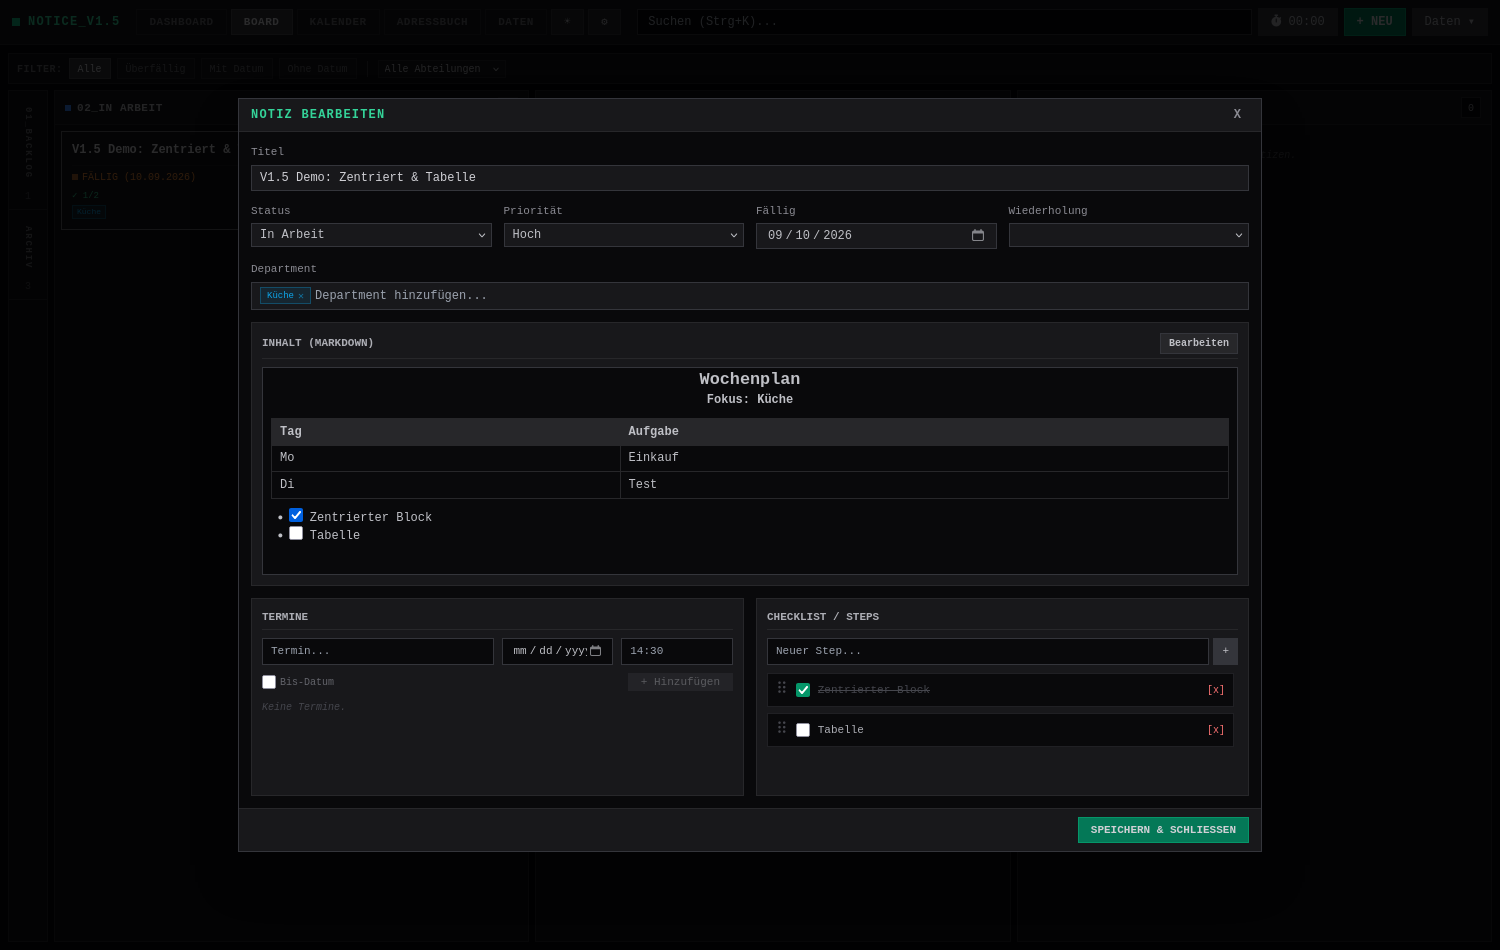
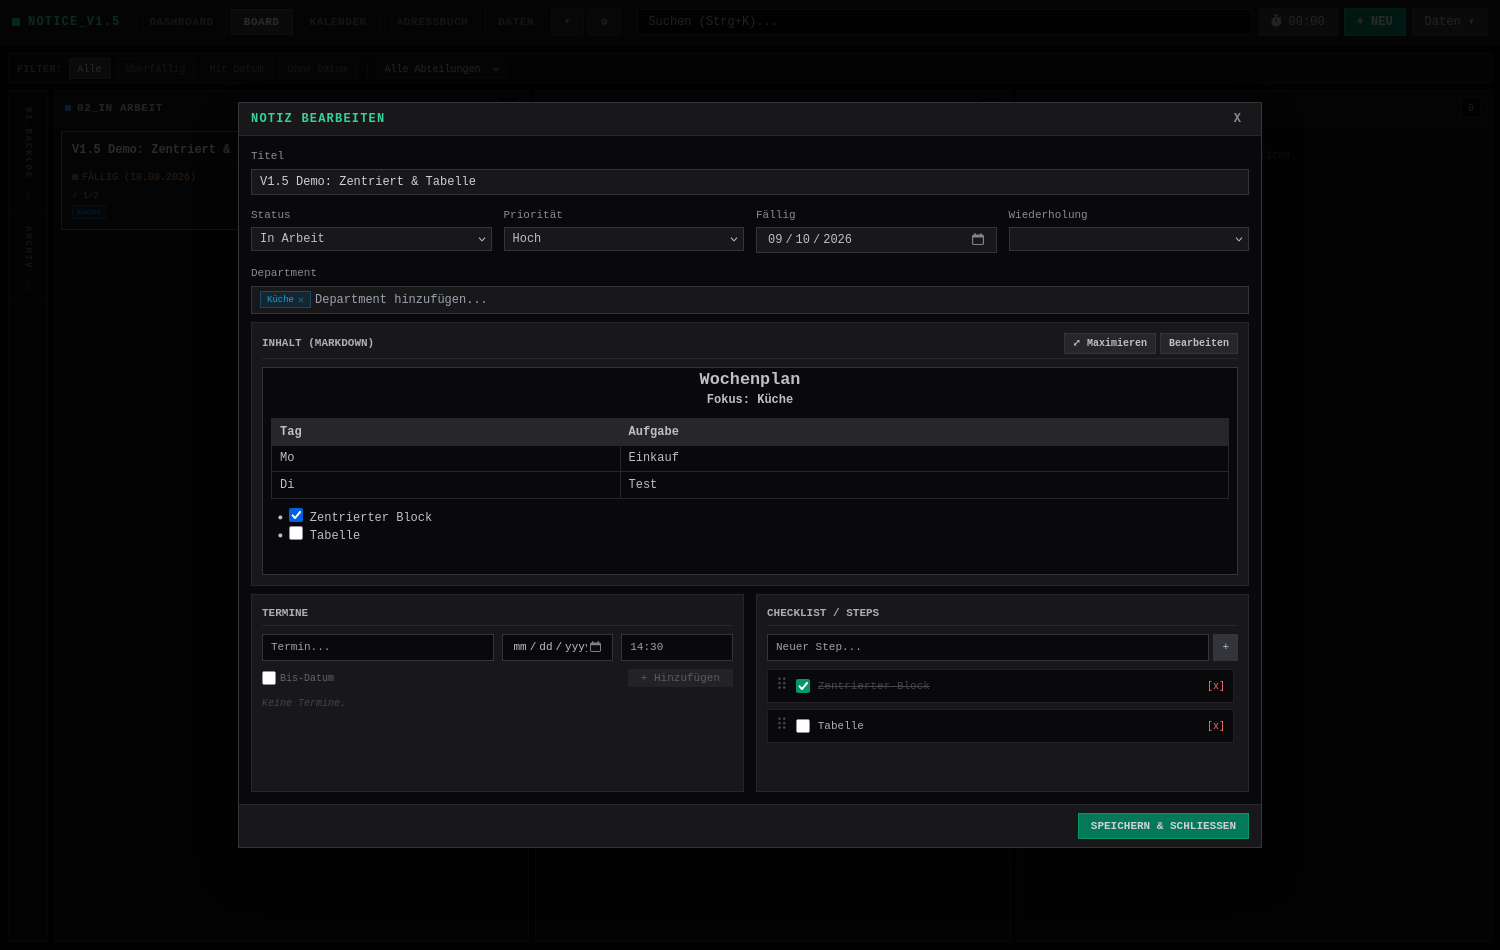
Notiz-Modals: nutzen volle Fensterhöhe (max-h-full + flex-1/-min-h-0 Body, Overlay p-2, gap-2) - kein Standard-Scrollbalken mehr im nicht-maximierten Fenster; 'Inhalt (Markdown)'-Card mit ⤢ Maximieren/⤡ Verkleinern-Toggle, der Termine/Steps ausblendet und den Editor füllend im Modal vergrößert

diff --git a/src/main.rs b/src/main.rs
@@ -2323,13 +2323,13 @@ const FRONTEND_HTML: &str = r#"<!DOCTYPE html>
         <input ref="imageUploadInputRef" type="file" accept="image/*" class="hidden" @change="onImageFileSelected">
 
         <!-- New note form -->
-        <div v-if="isNewNoteOpen" class="fixed inset-0 bg-black/80 flex items-center justify-center p-3 z-40" @keydown.enter="handleNewNoteEnter">
-            <div class="bg-zinc-50 dark:bg-zinc-900 border border-zinc-300 dark:border-zinc-700 w-full max-w-5xl max-h-[92vh] flex flex-col shadow-2xl" @click.stop>
+        <div v-if="isNewNoteOpen" class="fixed inset-0 bg-black/80 flex items-center justify-center p-2 z-40" @keydown.enter="handleNewNoteEnter">
+            <div class="bg-zinc-50 dark:bg-zinc-900 border border-zinc-300 dark:border-zinc-700 w-full max-w-5xl max-h-full flex flex-col shadow-2xl" :class="{ 'h-full': newNoteMarkdownMax }" @click.stop>
                 <div class="bg-zinc-50 dark:bg-zinc-900 border-b border-zinc-200 dark:border-zinc-800 px-3 py-2 flex justify-between items-center shrink-0">
                     <span class="text-xs font-bold tracking-widest text-emerald-600 dark:text-emerald-400 uppercase">Neue Notiz</span>
                     <button @click="closeNewNote" class="text-zinc-600 dark:text-zinc-400 hover:text-zinc-900 dark:text-zinc-100 text-xs font-bold px-2 cursor-pointer">X</button>
                 </div>
-                <div class="p-3 flex flex-col gap-3 bg-zinc-100 dark:bg-zinc-950 overflow-y-auto">
+                <div class="p-3 flex-1 min-h-0 flex flex-col gap-2 bg-zinc-100 dark:bg-zinc-950 overflow-y-auto">
                     <div class="grid grid-cols-1 md:grid-cols-4 gap-3">
                         <label class="flex flex-col gap-1 text-[11px] text-zinc-600 dark:text-zinc-400 md:col-span-4">
                             Titel
@@ -2424,11 +2424,14 @@ const FRONTEND_HTML: &str = r#"<!DOCTYPE html>
                         </label>
                     </div>
 
-                    <div class="flex flex-col gap-1 relative">
-                            <div class="bg-zinc-50 dark:bg-zinc-900 border border-zinc-200 dark:border-zinc-800 p-2.5 flex flex-col">
+                    <div class="flex flex-col gap-1 relative" :class="{ 'flex-1 min-h-0': newNoteMarkdownMax }">
+                            <div class="bg-zinc-50 dark:bg-zinc-900 border border-zinc-200 dark:border-zinc-800 p-2.5 flex flex-col" :class="{ 'flex-1 min-h-0': newNoteMarkdownMax }">
                                 <div class="flex justify-between items-center mb-2 border-b border-zinc-200 dark:border-zinc-800 pb-1">
                                     <span class="text-[11px] font-bold text-zinc-700 dark:text-zinc-300 uppercase">Inhalt (Markdown)</span>
-                                    <button @click="toggleNewNotePreview" class="bg-zinc-200 dark:bg-zinc-800 border border-zinc-300 dark:border-zinc-700 hover:bg-zinc-300 dark:hover:bg-zinc-700 text-zinc-800 dark:text-zinc-200 px-2 py-0.5 font-semibold transition-colors text-[10px] cursor-pointer">{{ newNotePreviewMode ? 'Bearbeiten' : 'Vorschau' }}</button>
+                                    <span class="flex items-center gap-1 shrink-0">
+                                        <button @click="newNoteMarkdownMax = !newNoteMarkdownMax" class="bg-zinc-200 dark:bg-zinc-800 border border-zinc-300 dark:border-zinc-700 hover:bg-zinc-300 dark:hover:bg-zinc-700 text-zinc-800 dark:text-zinc-200 px-2 py-0.5 font-semibold transition-colors text-[10px] cursor-pointer">{{ newNoteMarkdownMax ? '⤡ Verkleinern' : '⤢ Maximieren' }}</button>
+                                        <button @click="toggleNewNotePreview" class="bg-zinc-200 dark:bg-zinc-800 border border-zinc-300 dark:border-zinc-700 hover:bg-zinc-300 dark:hover:bg-zinc-700 text-zinc-800 dark:text-zinc-200 px-2 py-0.5 font-semibold transition-colors text-[10px] cursor-pointer">{{ newNotePreviewMode ? 'Bearbeiten' : 'Vorschau' }}</button>
+                                    </span>
                                 </div>
                                 <textarea 
                                 ref="newNoteTextareaRef"
@@ -2441,11 +2444,13 @@ const FRONTEND_HTML: &str = r#"<!DOCTYPE html>
                                 @click="updateAutocompletePos"
                                 @keydown="handleAutocompleteKeydown"
                                 @paste="onEditorPaste($event, 'new')"
-                                class="w-full h-52 bg-zinc-100 dark:bg-zinc-950 border border-zinc-300 dark:border-zinc-700 px-2 py-1 text-xs text-zinc-900 dark:text-zinc-100 font-mono focus:outline-none focus:border-emerald-500 focus:ring-1 focus:ring-emerald-500 resize-none"
+                                class="w-full bg-zinc-100 dark:bg-zinc-950 border border-zinc-300 dark:border-zinc-700 px-2 py-1 text-xs text-zinc-900 dark:text-zinc-100 font-mono focus:outline-none focus:border-emerald-500 focus:ring-1 focus:ring-emerald-500 resize-none"
+                                :class="newNoteMarkdownMax ? 'flex-1 min-h-0' : 'h-52'"
                                 ></textarea>
                                 <div 
                                      v-if="newNotePreviewMode" 
-                                     class="markdown-body w-full h-52 bg-zinc-100 dark:bg-zinc-950 border border-zinc-300 dark:border-zinc-700 px-2 py-1 text-zinc-800 dark:text-zinc-200 overflow-y-auto text-xs"
+                                     class="markdown-body w-full bg-zinc-100 dark:bg-zinc-950 border border-zinc-300 dark:border-zinc-700 px-2 py-1 text-zinc-800 dark:text-zinc-200 overflow-y-auto text-xs"
+                                     :class="newNoteMarkdownMax ? 'flex-1 min-h-0' : 'h-52'"
                                      v-html="newNoteRenderedMarkdown"
                                      @click.prevent="onNewNotePreviewClick">
                                 </div>
@@ -2500,7 +2505,7 @@ const FRONTEND_HTML: &str = r#"<!DOCTYPE html>
                         </div>
                             </div>
                         </div>
-                        <div class="grid grid-cols-1 md:grid-cols-2 gap-3">
+                        <div class="grid grid-cols-1 md:grid-cols-2 gap-3" v-if="!newNoteMarkdownMax">
                         <div class="bg-zinc-50 dark:bg-zinc-900 border border-zinc-200 dark:border-zinc-800 p-2.5">
                             <span class="text-[11px] font-bold text-zinc-700 dark:text-zinc-300 uppercase mb-2 block border-b border-zinc-200 dark:border-zinc-800 pb-1">Termine</span>
                             <div class="grid grid-cols-1 md:grid-cols-4 gap-2 mb-2">
@@ -2567,13 +2572,13 @@ const FRONTEND_HTML: &str = r#"<!DOCTYPE html>
         </div>
 
         <!-- Detail Modal -->
-        <div v-if="isModalOpen" class="fixed inset-0 bg-black/80 flex items-center justify-center p-3 z-50">
-            <div class="bg-zinc-50 dark:bg-zinc-900 border border-zinc-300 dark:border-zinc-700 w-full max-w-5xl max-h-[92vh] flex flex-col shadow-2xl" @click.stop>
+        <div v-if="isModalOpen" class="fixed inset-0 bg-black/80 flex items-center justify-center p-2 z-50">
+            <div class="bg-zinc-50 dark:bg-zinc-900 border border-zinc-300 dark:border-zinc-700 w-full max-w-5xl max-h-full flex flex-col shadow-2xl" :class="{ 'h-full': detailMarkdownMax }" @click.stop>
                 <div class="bg-zinc-50 dark:bg-zinc-900 border-b border-zinc-200 dark:border-zinc-800 px-3 py-2 flex justify-between items-center shrink-0">
                     <span class="text-xs font-bold tracking-widest text-emerald-600 dark:text-emerald-400 uppercase">Notiz bearbeiten</span>
                     <button @click="closeModal" class="text-zinc-600 dark:text-zinc-400 hover:text-zinc-900 dark:text-zinc-100 text-xs font-bold px-2 cursor-pointer">X</button>
                 </div>
-                <div class="p-3 flex flex-col gap-3 bg-zinc-100 dark:bg-zinc-950 overflow-y-auto">
+                <div class="p-3 flex-1 min-h-0 flex flex-col gap-2 bg-zinc-100 dark:bg-zinc-950 overflow-y-auto">
                     <div class="grid grid-cols-1 md:grid-cols-4 gap-3">
                         <label class="flex flex-col gap-1 text-[11px] text-zinc-600 dark:text-zinc-400 md:col-span-4">
                             Titel
@@ -2668,11 +2673,14 @@ const FRONTEND_HTML: &str = r#"<!DOCTYPE html>
                         </label>
                     </div>
 
-                    <div class="flex flex-col gap-1 relative">
-                            <div class="bg-zinc-50 dark:bg-zinc-900 border border-zinc-200 dark:border-zinc-800 p-2.5 flex flex-col">
+                    <div class="flex flex-col gap-1 relative" :class="{ 'flex-1 min-h-0': detailMarkdownMax }">
+                            <div class="bg-zinc-50 dark:bg-zinc-900 border border-zinc-200 dark:border-zinc-800 p-2.5 flex flex-col" :class="{ 'flex-1 min-h-0': detailMarkdownMax }">
                                 <div class="flex justify-between items-center mb-2 border-b border-zinc-200 dark:border-zinc-800 pb-1">
                                     <span class="text-[11px] font-bold text-zinc-700 dark:text-zinc-300 uppercase">Inhalt (Markdown)</span>
-                                    <button @click="toggleDetailPreview" class="bg-zinc-200 dark:bg-zinc-800 border border-zinc-300 dark:border-zinc-700 hover:bg-zinc-300 dark:hover:bg-zinc-700 text-zinc-800 dark:text-zinc-200 px-2 py-0.5 font-semibold transition-colors text-[10px] cursor-pointer">{{ isPreviewMode ? 'Bearbeiten' : 'Vorschau' }}</button>
+                                    <span class="flex items-center gap-1 shrink-0">
+                                        <button @click="detailMarkdownMax = !detailMarkdownMax" class="bg-zinc-200 dark:bg-zinc-800 border border-zinc-300 dark:border-zinc-700 hover:bg-zinc-300 dark:hover:bg-zinc-700 text-zinc-800 dark:text-zinc-200 px-2 py-0.5 font-semibold transition-colors text-[10px] cursor-pointer">{{ detailMarkdownMax ? '⤡ Verkleinern' : '⤢ Maximieren' }}</button>
+                                        <button @click="toggleDetailPreview" class="bg-zinc-200 dark:bg-zinc-800 border border-zinc-300 dark:border-zinc-700 hover:bg-zinc-300 dark:hover:bg-zinc-700 text-zinc-800 dark:text-zinc-200 px-2 py-0.5 font-semibold transition-colors text-[10px] cursor-pointer">{{ isPreviewMode ? 'Bearbeiten' : 'Vorschau' }}</button>
+                                    </span>
                                 </div>
                                 <textarea 
                                 ref="textareaRef"
@@ -2685,11 +2693,13 @@ const FRONTEND_HTML: &str = r#"<!DOCTYPE html>
                                 @click="updateAutocompletePos"
                                 @keydown="handleAutocompleteKeydown"
                                 @paste="onEditorPaste($event, 'edit')"
-                                class="w-full h-52 bg-zinc-100 dark:bg-zinc-950 border border-zinc-300 dark:border-zinc-700 px-2 py-1 text-xs text-zinc-900 dark:text-zinc-100 font-mono focus:outline-none focus:border-emerald-500 focus:ring-1 focus:ring-emerald-500 resize-none"
+                                class="w-full bg-zinc-100 dark:bg-zinc-950 border border-zinc-300 dark:border-zinc-700 px-2 py-1 text-xs text-zinc-900 dark:text-zinc-100 font-mono focus:outline-none focus:border-emerald-500 focus:ring-1 focus:ring-emerald-500 resize-none"
+                                :class="detailMarkdownMax ? 'flex-1 min-h-0' : 'h-52'"
                                 ></textarea>
                                 <div 
                                      v-if="isPreviewMode" 
-                                     class="markdown-body w-full h-52 bg-zinc-100 dark:bg-zinc-950 border border-zinc-300 dark:border-zinc-700 px-2 py-1 text-zinc-800 dark:text-zinc-200 overflow-y-auto text-xs"
+                                     class="markdown-body w-full bg-zinc-100 dark:bg-zinc-950 border border-zinc-300 dark:border-zinc-700 px-2 py-1 text-zinc-800 dark:text-zinc-200 overflow-y-auto text-xs"
+                                     :class="detailMarkdownMax ? 'flex-1 min-h-0' : 'h-52'"
                                      v-html="renderedMarkdown"
                                      @click.prevent="onPreviewClick"
                                      @mousemove="showContactPopover"
@@ -2764,7 +2774,7 @@ const FRONTEND_HTML: &str = r#"<!DOCTYPE html>
                         </div>
                             </div>
                         </div>
-                        <div class="grid grid-cols-1 md:grid-cols-2 gap-3">
+                        <div class="grid grid-cols-1 md:grid-cols-2 gap-3" v-if="!detailMarkdownMax">
                         <div class="bg-zinc-50 dark:bg-zinc-900 border border-zinc-200 dark:border-zinc-800 p-2.5">
                             <span class="text-[11px] font-bold text-zinc-700 dark:text-zinc-300 uppercase mb-2 block border-b border-zinc-200 dark:border-zinc-800 pb-1">Termine</span>
                             <div class="grid grid-cols-1 md:grid-cols-4 gap-2 mb-2">
@@ -2894,6 +2904,8 @@ const FRONTEND_HTML: &str = r#"<!DOCTYPE html>
                 const isModalOpen = ref(false)
                 const isPreviewMode = ref(false)
                 const newNotePreviewMode = ref(false)
+                const newNoteMarkdownMax = ref(false)
+                const detailMarkdownMax = ref(false)
                 const activeNote = ref(null)
                 const activeChecklist = ref([])
                 const newStepText = ref('')
@@ -3557,6 +3569,7 @@ const FRONTEND_HTML: &str = r#"<!DOCTYPE html>
 
                 const openNewNote = () => {
                     isNewNoteOpen.value = true
+                    newNoteMarkdownMax.value = false
                     try {
                         const d = JSON.parse(localStorage['notice-draft'] || 'null')
                         if (d && d.ts && (d.title || d.content || (d.checklist || []).length || (d.appointments || []).length)) {
@@ -3864,6 +3877,7 @@ const FRONTEND_HTML: &str = r#"<!DOCTYPE html>
                     activeNoteAppointments.value = getAppointments(note)
                     modalDeptInput.value = ''
                     isPreviewMode.value = true
+                    detailMarkdownMax.value = false
                     isModalOpen.value = true
                     closeContextMenu()
                 }
@@ -5617,7 +5631,9 @@ const isAppointmentOverdue = (apt) => {
                     isModalOpen,
                     isPreviewMode,
                     toggleDetailPreview,
+                    detailMarkdownMax,
                     newNotePreviewMode,
+                    newNoteMarkdownMax,
                     toggleNewNotePreview,
                     newNoteRenderedMarkdown,
                     onNewNotePreviewClick,
